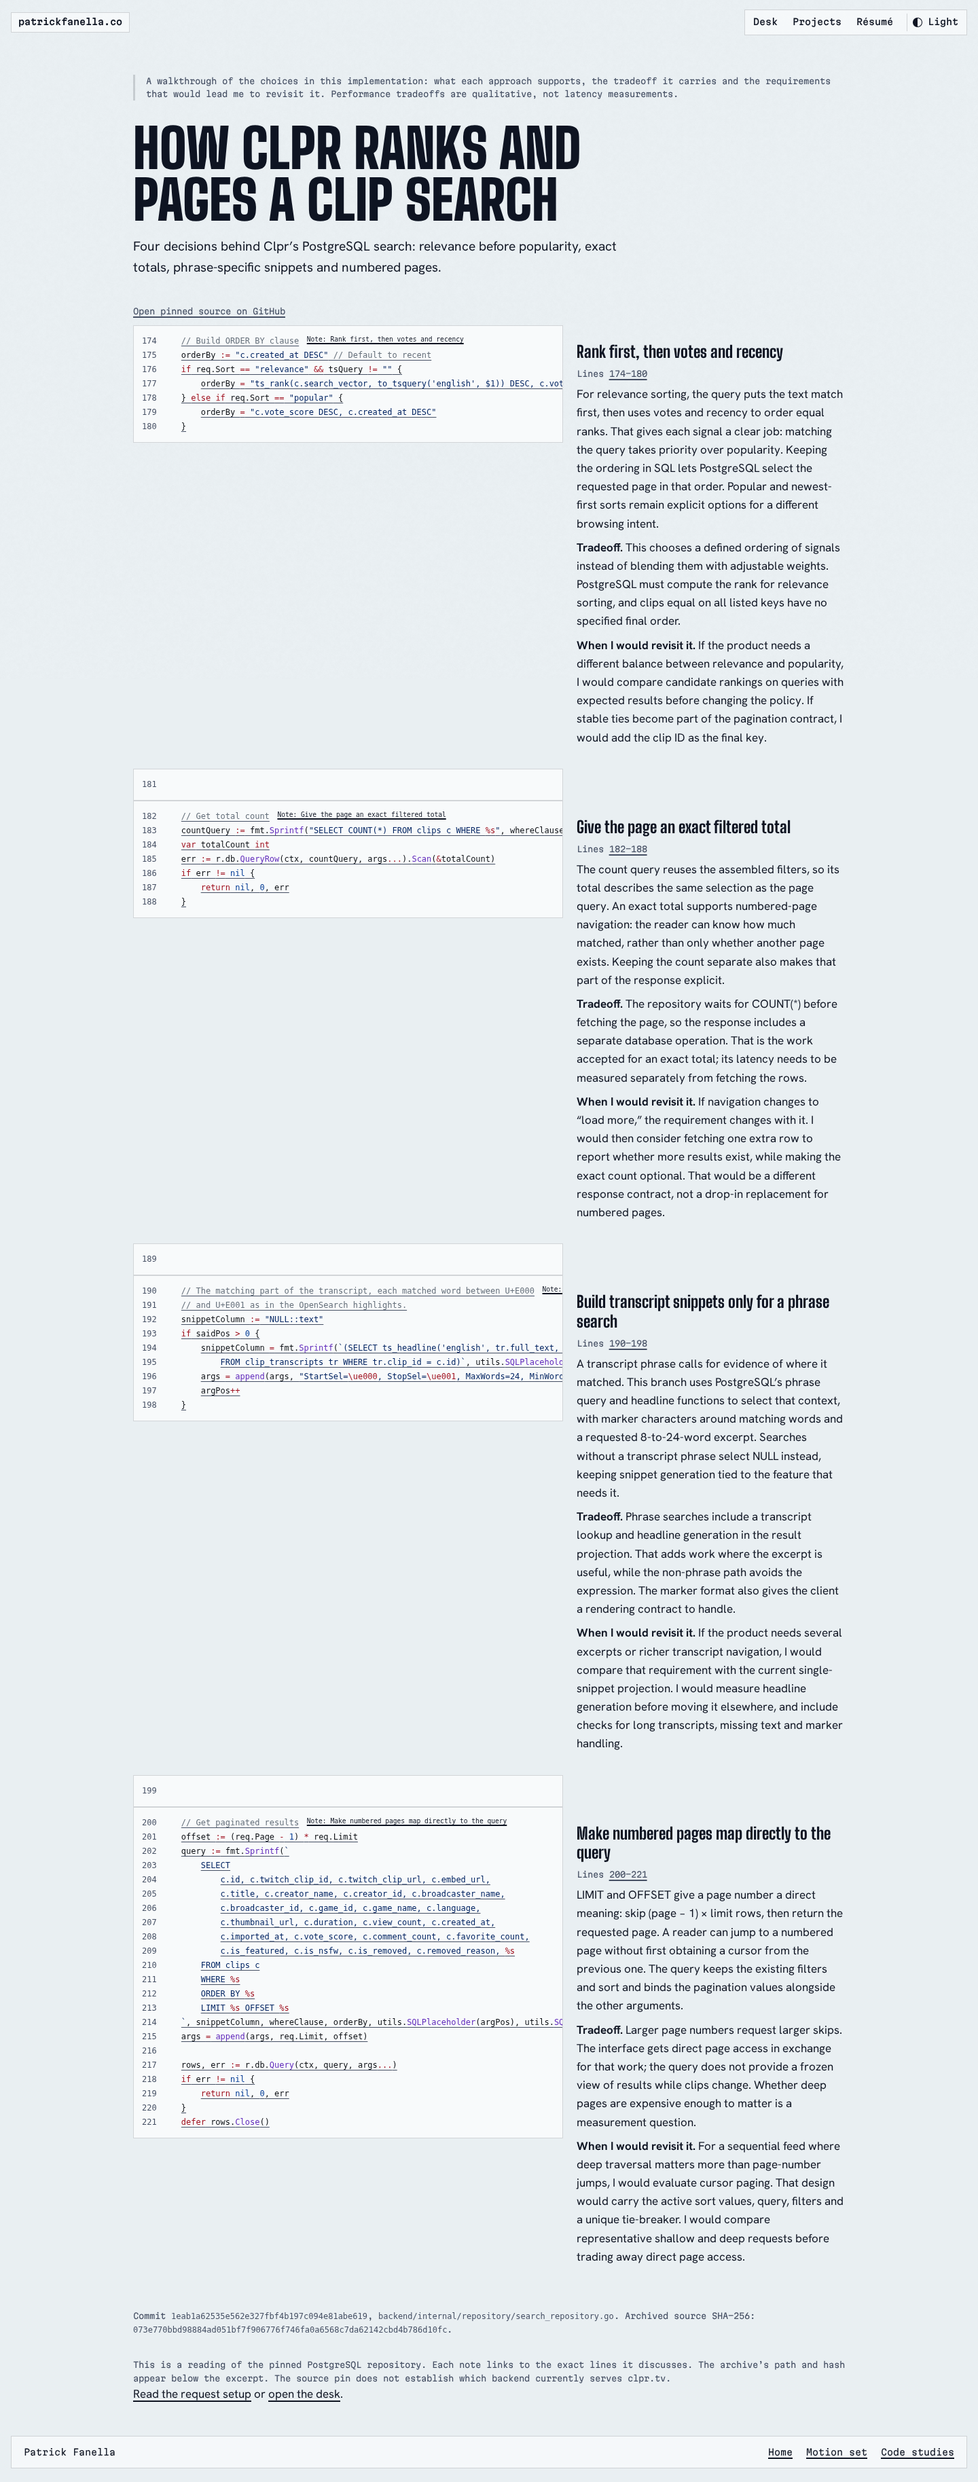
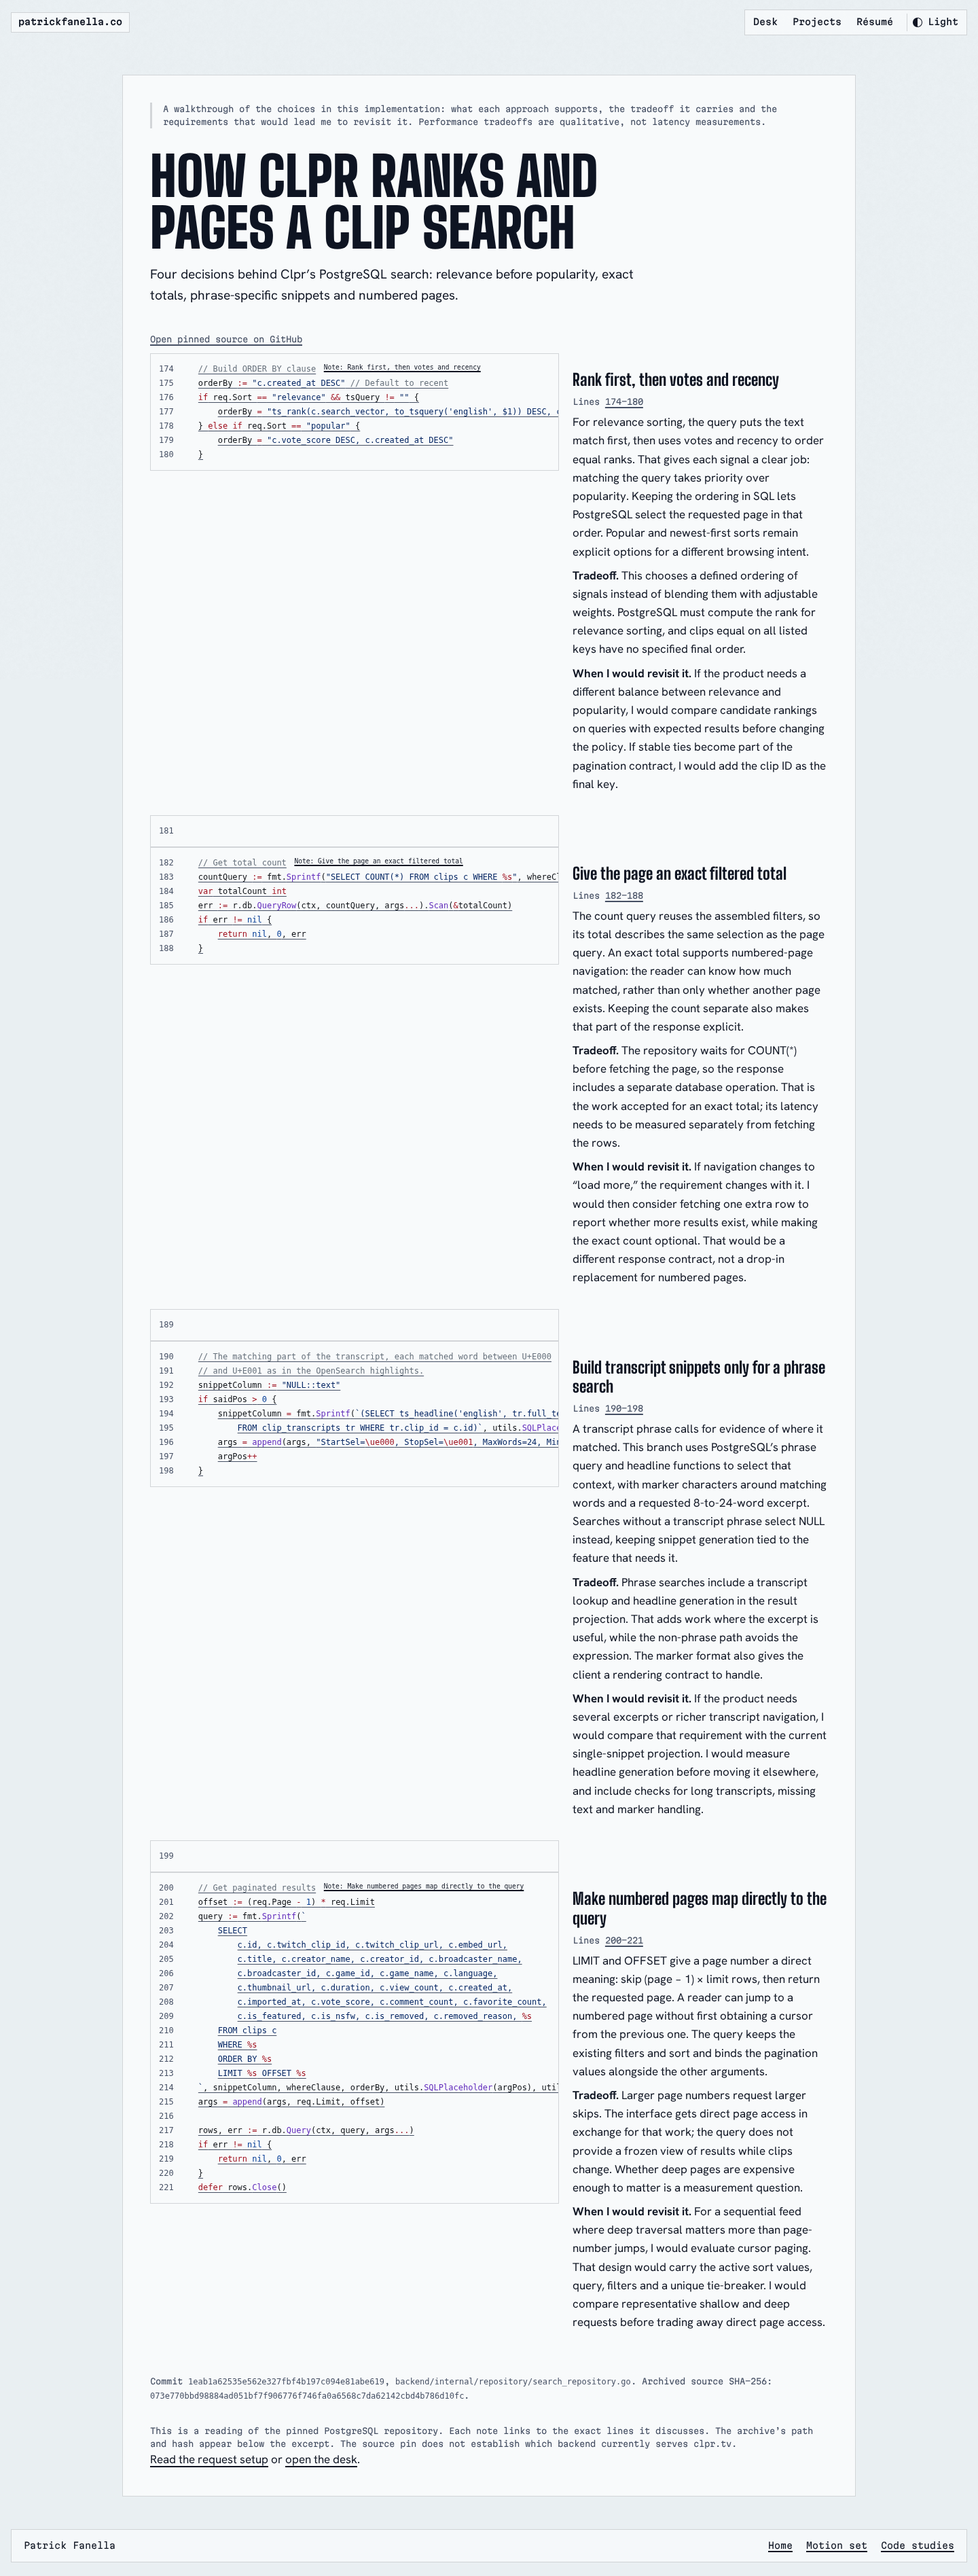
Keep case-study text on an opaque theme-matched reading surface

Changed region(s): [[0.125, 0.0312, 0.8438, 0.9669], [0.125, 0.7174, 0.5312, 0.8733], [0.7188, 0.0312, 0.75, 0.0624]]

diff --git a/src/styles/content-pages.css b/src/styles/content-pages.css
@@ -1,4 +1,12 @@
 .content-main { position: relative; z-index: 1; max-width: 1080px; width: 100%; margin: 3rem auto; padding: 0 var(--gutter); }
+/* Long-form source and notes need a stable background at every ink density. The opaque surface
+   uses the existing light/dark tokens; smoke remains visible in the surrounding gutters. */
+.content-main.reading-surface {
+  width: calc(100% - var(--gutter) - var(--gutter-r));
+  padding: clamp(16px, 3vw, 40px);
+  background: var(--raise-solid);
+  border: 1px solid var(--line);
+}
 .content-main h1 { font: 900 clamp(3.5rem, 9vw, 7rem)/.95 var(--display); text-transform: uppercase; margin: 0 0 1rem; }
 .lead { font-size: 1.2rem; max-width: 65ch; margin-bottom: 2.5rem; }
 .group-title { font: 800 2.25rem/1.1 var(--display); margin: 2rem 0 1rem; }

diff --git a/docs/clpr-search-study.md b/docs/clpr-search-study.md
@@ -20,6 +20,11 @@ inventing historical comparisons, benchmarks or a universal “best” algorithm
 The original screenshots in `docs/reviews/` record the version submitted for approval; the
 `clpr-search-decisions-*` screenshots show the revised decision walkthrough.
 
+Both study pages use an opaque reading surface in the existing theme color, with a border and
+responsive padding. It covers the title, notes, source and source captions. The smoke canvas stays
+behind the page and is visible in the surrounding gutters; its brightness cannot change the text
+background. Fonts, motion, square corners and the rest of the palette stay with the site tokens.
+
 Checks: `npm run build`; `npx playwright test e2e/case-study.spec.ts e2e/clpr-study.spec.ts`.
 Chromium and Firefox compare the rendered text with every source line, validate the source pin
 and annotation links, read the study without scripts, check note placement at 1440 and 390 px,
